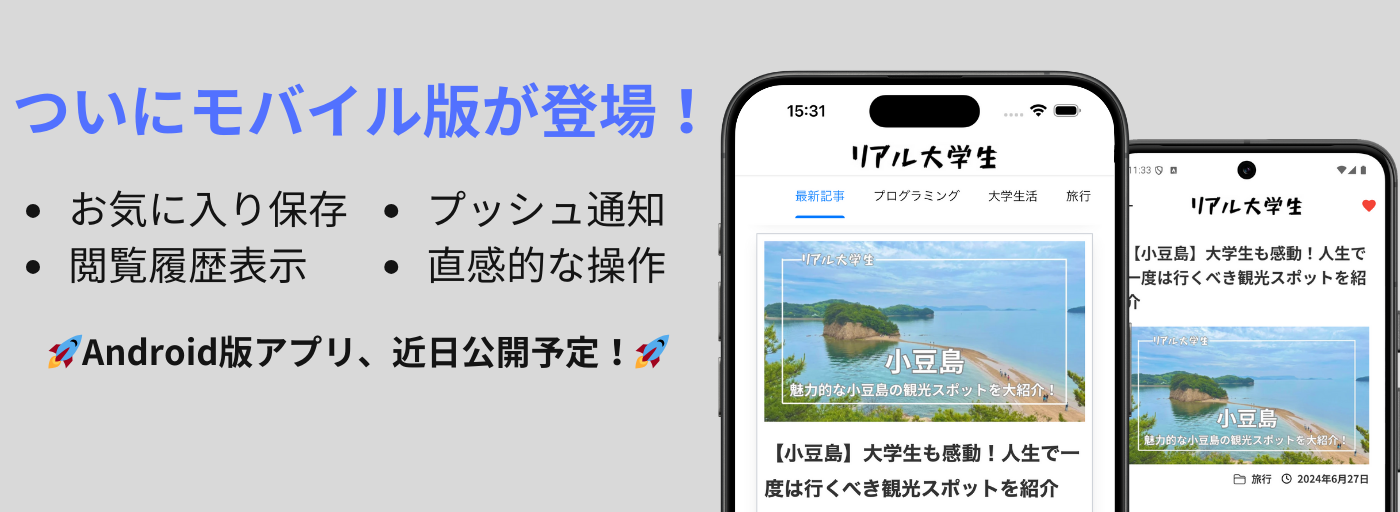
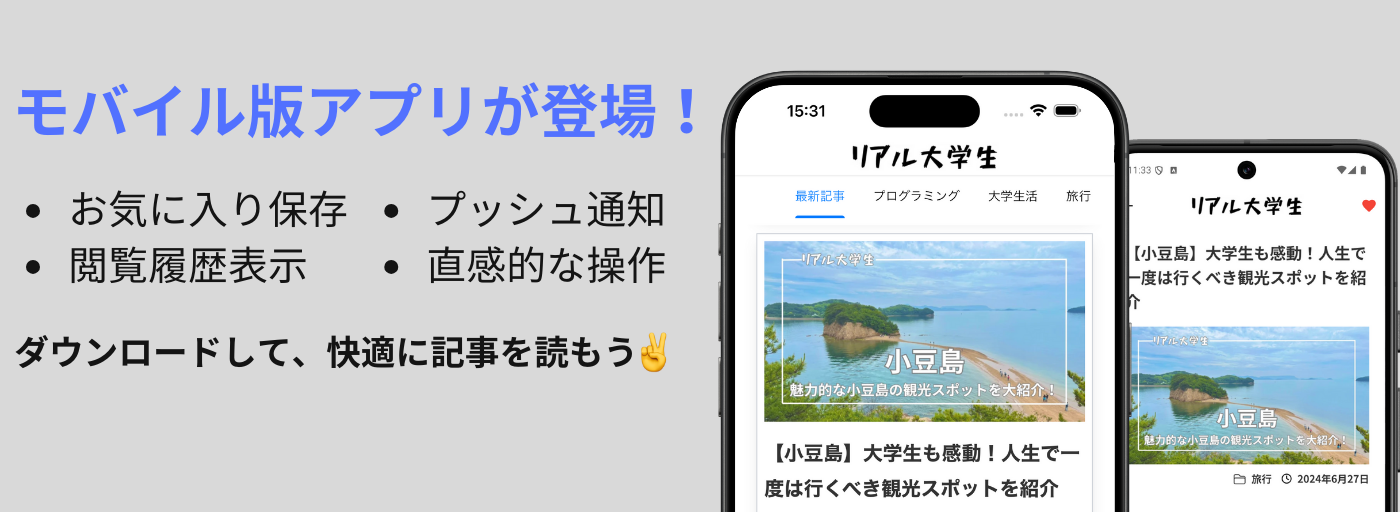
fix: mobile_banner

Changed region(s): [[0.0, 0.1562, 0.3379, 0.2812], [0.0, 0.6562, 0.4914, 0.7188]]

diff --git a/components/Footer/index.tsx b/components/Footer/index.tsx
@@ -4,6 +4,7 @@ import React from 'react';
 import styles from './index.module.css';
 import Image from 'next/image';
 import { BlogTitle, copyRight } from '@/section/Dummy';
+import MobileBanner from '../MobileBanner';
 
 interface IconProps extends React.SVGProps<SVGSVGElement> {}
 
@@ -64,47 +65,7 @@ const footerNavigation = {
 export default function Footer() {
   return (
     <footer className={`${styles.footer} w-full bg-white`}>
-      <div className="flex justify-center mt-20" style={{ backgroundColor: '#d9d9d9' }}>
-        <div style={{ position: 'relative', width: '700px' }}>
-          <img
-            loading="lazy"
-            style={{ padding: '0 12px' }}
-            src="/images/blog/mobilebanner.png"
-            alt=""
-          />
-          <div
-            style={{
-              position: 'absolute',
-              bottom: '10px',
-              left: '15px',
-              display: 'flex',
-              justifyContent: 'center',
-              width: '45%',
-            }}
-          >
-            <a
-              href="https://apps.apple.com/jp/app/リアル大学生-モバイル/id6590619103"
-              target="_blank"
-            >
-              <img
-                src="/Download_on_the_App_Store_Badge_US-UK_RGB_blk_092917.svg"
-                alt="Download on the App Store"
-                style={{ height: '40px' }}
-                className="app-badge"
-              />
-            </a>
-            <a target="_blank" className="app-badge-link" style={{ marginLeft: '10%' }}>
-              <img
-                src="/GetItOnGooglePlay_Badge_Web_color_English.png"
-                alt="Download on the Play Store"
-                style={{ height: '40px' }}
-                className="app-badge"
-              />
-            </a>
-          </div>
-        </div>
-      </div>
-
+      <MobileBanner />
       <h2 id="footer-heading" className="sr-only">
         Footer
       </h2>

diff --git a/components/MobileBanner/index.tsx b/components/MobileBanner/index.tsx
@@ -1,0 +1,50 @@
+export default function MobileBanner() {
+  return (
+    <div className="flex justify-center mt-20" style={{ backgroundColor: '#d9d9d9' }}>
+      <div style={{ position: 'relative', width: '700px' }}>
+        <img
+          loading="lazy"
+          style={{ padding: '0 12px' }}
+          src="/images/blog/mobilebanner.png"
+          alt=""
+        />
+        <div
+          style={{
+            position: 'absolute',
+            bottom: '10px',
+            left: '15px',
+            display: 'flex',
+            justifyContent: 'center',
+            width: '45%',
+          }}
+        >
+          <a
+            href="https://apps.apple.com/jp/app/リアル大学生-モバイル/id6590619103"
+            target="_blank"
+            className="hover:shadow-xl transition-shadow duration-200 transform hover:-translate-y-1"
+          >
+            <img
+              src="/Download_on_the_App_Store_Badge_US-UK_RGB_blk_092917.svg"
+              alt="Download on the App Store"
+              style={{ height: '40px' }}
+              className="app-badge"
+            />
+          </a>
+          <a
+            href="https://play.google.com/store/apps/details?id=com.realunivlog.flutterblogapp"
+            target="_blank"
+            className="app-badge-link hover:shadow-xl transition-shadow duration-200 transform hover:-translate-y-1"
+            style={{ marginLeft: '10%' }}
+          >
+            <img
+              src="/GetItOnGooglePlay_Badge_Web_color_English.png"
+              alt="Download on the Play Store"
+              style={{ height: '40px' }}
+              className="app-badge"
+            />
+          </a>
+        </div>
+      </div>
+    </div>
+  );
+}
